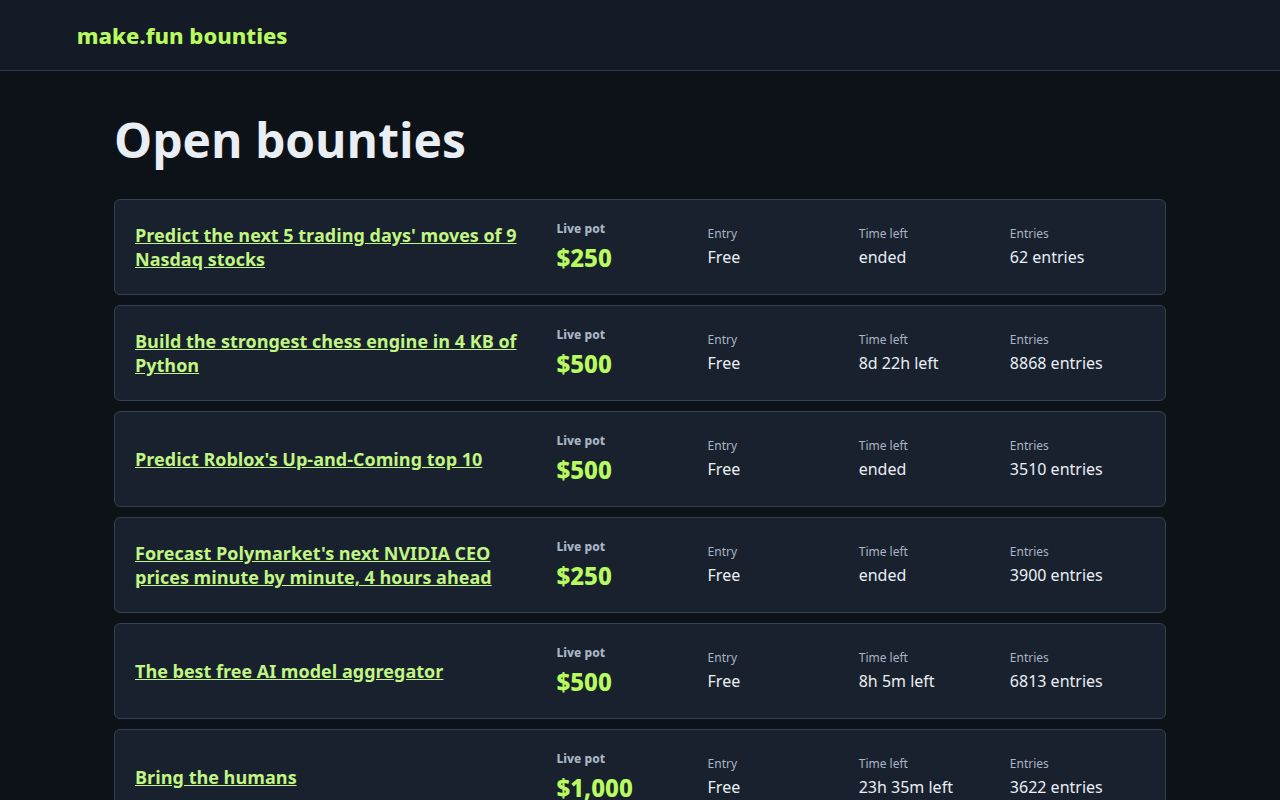
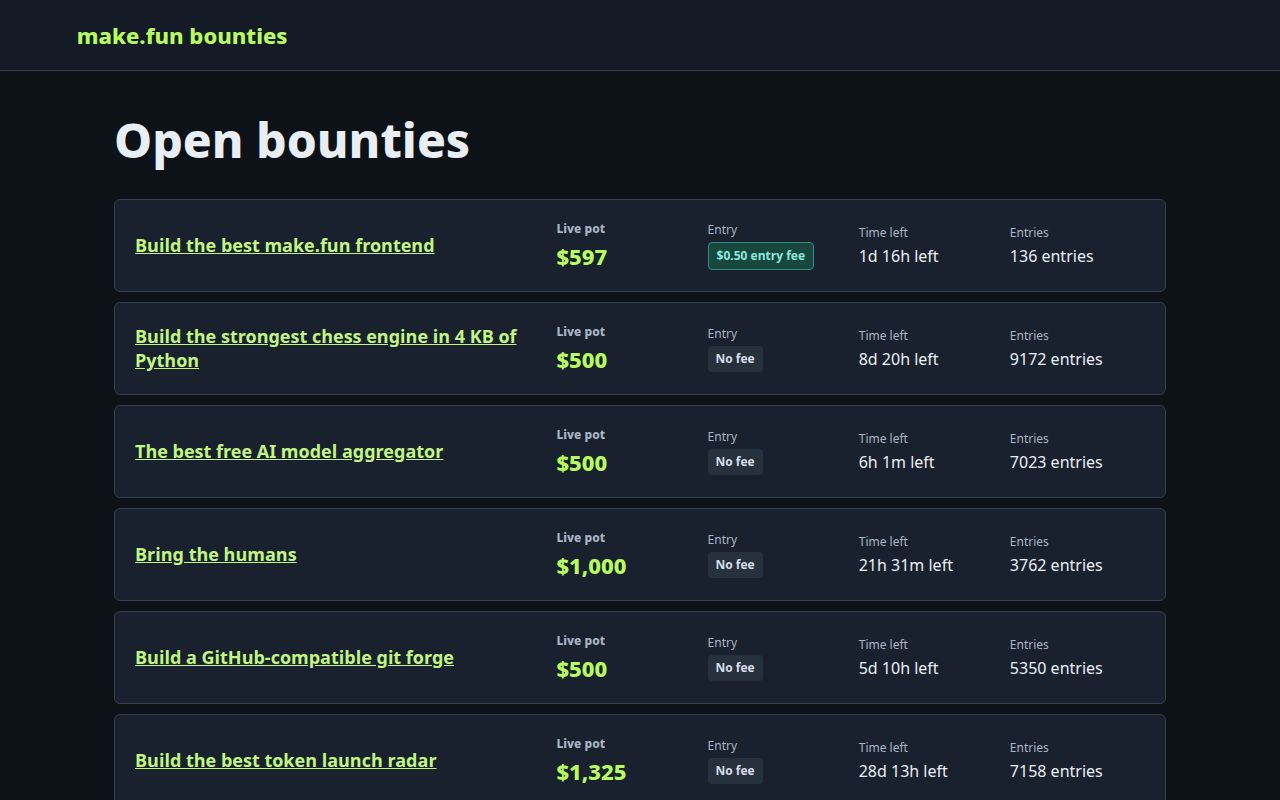
Design pass, deadline-based sections, consolidated stylesheet, leaderboard shot, fresh board capture

diff --git a/app/style.css b/app/style.css
@@ -1,2 +1,58 @@
-:root{font-family:Inter,system-ui,sans-serif;color:#e9edf4;background:#0d1118;color-scheme:dark}*{box-sizing:border-box}body{margin:0}header{padding:24px 6%;border-bottom:1px solid #303949;background:#151b26}header a{font-weight:800;font-size:24px;color:#bafa61;text-decoration:none}main{max-width:1100px;margin:55px auto;padding:0 24px}h1{font-size:clamp(32px,5vw,54px);letter-spacing:-2px}a{color:#c2f584}p,.description{line-height:1.8;white-space:pre-wrap}.board{padding:0;list-style:none}.board li{display:grid;grid-template-columns:3fr 1fr 1fr 1fr 1fr;gap:20px;padding:26px 20px;margin:12px 0;background:#19212e;border:1px solid #344153;border-radius:12px;align-items:center}.board li a{font-size:19px;font-weight:650}.board li span:first-of-type{font-size:24px;font-weight:800;color:#bafa61}dl{padding:24px;background:#19212e;border-radius:12px;display:grid;grid-template-columns:1fr 2fr;gap:18px}dd{margin:0;font-weight:600}dt{color:#a9b4c5}pre{overflow:auto}@media(max-width:700px){main{margin-top:30px}.board li{grid-template-columns:1fr 1fr}.board li a{grid-column:1/-1}dl{grid-template-columns:1fr}dd{margin-bottom:12px}}
-:root{font-family:Inter,system-ui,sans-serif;color:#e9edf4;background:#0d1118;color-scheme:dark}*{box-sizing:border-box}body{margin:0}header{padding:20px 6%;border-bottom:1px solid #303949;background:#151b26}header a{font-weight:800;font-size:22px;color:#bafa61;text-decoration:none}main{max-width:1100px;margin:42px auto;padding:0 24px}h1{font-size:clamp(32px,5vw,48px);letter-spacing:0;line-height:1.12}h2{margin-top:30px}a{color:#c2f584}p,.description{line-height:1.8;white-space:pre-wrap}.board{padding:0;list-style:none}.board li{display:grid;grid-template-columns:minmax(240px,3fr) repeat(4,minmax(90px,1fr));gap:16px;padding:20px;margin:10px 0;background:#19212e;border:1px solid #344153;border-radius:6px;align-items:center}.board li a{font-size:18px;font-weight:650}.board li span{min-width:0}.board li small{display:block;color:#a9b4c5;font-size:12px;margin-bottom:4px}.board li .board-pot{font-size:22px;font-weight:800;color:#bafa61}dl{padding:22px;background:#19212e;border-radius:6px;display:grid;grid-template-columns:1fr 2fr;gap:14px}dd{margin:0;font-weight:600}dt{color:#a9b4c5}.fact-pot{font-size:24px;color:#bafa61}dd small{color:#a9b4c5;font-weight:400}pre{overflow:auto}table{width:100%;border-collapse:collapse;background:#19212e}th,td{padding:12px 14px;text-align:left;border:1px solid #344153}tbody tr+tr td{border-top:2px solid #273244}.pagination{display:flex;gap:12px;margin:20px 0}.pagination button{padding:8px 14px;background:#19212e;color:#e9edf4;border:1px solid #526177;border-radius:6px;cursor:pointer}@media(max-width:700px){main{margin-top:26px;padding:0 16px}.board li{grid-template-columns:1fr 1fr;gap:12px;padding:16px}.board li a{grid-column:1/-1}.board li .board-pot{font-size:20px}dl{grid-template-columns:1fr 1.4fr;padding:16px;gap:12px}table{display:block;overflow-x:auto;white-space:nowrap}}
+:root {
+  font-family: Inter, system-ui, sans-serif;
+  color: #e9edf4;
+  background: #0d1118;
+  color-scheme: dark;
+  --accent: #bafa61;
+  --accent-two: #56d6c2;
+  --muted: #a9b4c5;
+}
+
+* { box-sizing: border-box; }
+body { margin: 0; }
+header { padding: 20px 6%; border-bottom: 1px solid #303949; background: #151b26; }
+header a { font-weight: 800; font-size: 22px; color: var(--accent); text-decoration: none; }
+main { max-width: 1100px; margin: 42px auto; padding: 0 24px; }
+h1 { font-size: clamp(32px, 5vw, 48px); letter-spacing: 0; line-height: 1.12; font-weight: 800; }
+h2 { margin-top: 30px; font-size: 25px; line-height: 1.25; }
+a { color: #c2f584; }
+p, .description { line-height: 1.8; white-space: pre-wrap; }
+.section-nav { font-size: 14px; color: var(--muted); }
+.board { padding: 0; list-style: none; }
+.board li { display: grid; grid-template-columns: minmax(240px, 3fr) repeat(4, minmax(90px, 1fr)); gap: 16px; padding: 20px; margin: 10px 0; background: #19212e; border: 1px solid #344153; border-radius: 6px; align-items: center; }
+.board li a { font-size: 18px; font-weight: 650; }
+.board li span { min-width: 0; }
+.board li small { display: block; color: var(--muted); font-size: 12px; margin-bottom: 4px; }
+.board li .board-pot { font-size: 22px; font-weight: 800; color: var(--accent); }
+.board-card { grid-template-columns: minmax(240px, 3fr) repeat(4, minmax(80px, 1fr)); }
+.board-card > img { width: 64px; height: 64px; object-fit: cover; border-radius: 4px; }
+.board-card.has-image { grid-template-columns: 64px minmax(180px, 3fr) repeat(4, minmax(80px, 1fr)); }
+.board-card.has-image > a { grid-column: 2; }
+.fee, .free { display: inline-block; padding: 5px 8px; border-radius: 4px; font-size: 12px; line-height: 1.3; font-weight: 700; white-space: normal; }
+.fee { background: #17473f; color: #8ce9d9; border: 1px solid #328d7d; }
+.free { background: #26313d; color: #d6deea; }
+.ended-list .ended { opacity: 0.62; background: #121923; border-color: #26313f; }
+.ended-list .ended a { color: #c0c8d4; }
+.fact-pot { font-size: 24px; color: var(--accent); }
+dl { padding: 22px; background: #19212e; border-radius: 6px; display: grid; grid-template-columns: 1fr 2fr; gap: 14px; }
+dd { margin: 0; font-weight: 600; }
+dt { color: var(--muted); }
+dd small { color: var(--muted); font-weight: 400; }
+pre { overflow: auto; }
+table { width: 100%; border-collapse: collapse; background: #19212e; }
+th, td { padding: 12px 14px; text-align: left; border: 1px solid #344153; }
+tbody tr + tr td { border-top: 2px solid #273244; }
+.pagination { display: flex; gap: 12px; margin: 20px 0; }
+.pagination button { padding: 8px 14px; background: #19212e; color: #e9edf4; border: 1px solid #526177; border-radius: 6px; cursor: pointer; }
+
+@media (max-width: 700px) {
+  main { margin-top: 26px; padding: 0 16px; }
+  .board li, .board-card { grid-template-columns: 1fr 1fr; gap: 12px; padding: 16px; }
+  .board-card > img { width: 48px; height: 48px; }
+  .board-card.has-image { grid-template-columns: 48px minmax(0, 1fr); }
+  .board-card.has-image > a { grid-column: 2; grid-row: 1; align-self: center; }
+  .board li a { grid-column: 1 / -1; }
+  .board li .board-pot { font-size: 20px; }
+  dl { grid-template-columns: 1fr 1.4fr; padding: 16px; gap: 12px; }
+  table { display: block; overflow-x: auto; white-space: nowrap; }
+}

diff --git a/app/views.js b/app/views.js
@@ -10,26 +10,31 @@ const fee = (b) => (b.entryFeeUsd ? `${money(b.entryFeeUsd)} entry fee` : '');
 
 export function board(data) {
   const items = data.items || [];
+  const isEnded = b => b.ended || (b.deadline && Date.parse(b.deadline) < Date.now());
+  const open = items.filter(b => !isEnded(b) && (!b.status || b.status === 'open')).sort((a,b) => Number(Boolean(b.entryFeeUsd))-Number(Boolean(a.entryFeeUsd)));
+  const ended = items.filter(isEnded);
   const page = Math.max(0, Number(data.page || 0));
-  const pageItems = items.slice(page * 10, page * 10 + 10);
+  const pageItems = open.slice(page * 10, page * 10 + 10);
   const rows = pageItems
     .map(
       (b) => `
-      <li>
+      <li class="board-card${b.imageUrl || b.thumbnailUrl || b.image ? ' has-image' : ''}">
+        ${b.imageUrl || b.thumbnailUrl || b.image ? `<img loading="lazy" src="${esc(b.imageUrl || b.thumbnailUrl || b.image)}" alt="" onerror="this.hidden=true">` : ''}
         <a href="#/bounty/${encodeURIComponent(b.slug)}">${esc(b.title)}</a>
         <span class="board-pot"><small>Live pot</small>${pot(b)}</span>
-        <span><small>Entry</small>${fee(b) || 'Free'}</span>
+        <span><small>Entry</small>${fee(b) ? `<b class="fee">${fee(b)}</b>` : '<b class="free">No fee</b>'}</span>
         <span><small>Time left</small>${timeLeft(b.deadline)}</span>
         <span><small>Entries</small>${b.submissionCount} ${b.submissionCount === 1 ? 'entry' : 'entries'}</span>
       </li>`,
     )
     .join('');
-  return `<h1>Open bounties</h1><ul class="board">${rows || '<li>No open bounties.</li>'}</ul><nav class="pagination">${page > 0 ? `<button data-page="${page - 1}">Previous</button>` : ''}${(page + 1) * 10 < items.length ? `<button data-page="${page + 1}">Next</button>` : ''}</nav>`;
+  const endedRows = ended.map(b => `<li class="ended"><a href="#/bounty/${encodeURIComponent(b.slug)}">${esc(b.title)}</a><span>Ended</span><span>${pot(b)}</span></li>`).join('');
+  return `<h1>Open bounties</h1><ul class="board">${rows || '<li>No open bounties.</li>'}</ul><nav class="pagination">${page > 0 ? `<button data-page="${page - 1}">Previous</button>` : ''}${(page + 1) * 10 < open.length ? `<button data-page="${page + 1}">Next</button>` : ''}</nav><h2>Ended bounties</h2><ul class="board ended-list">${endedRows || '<li>None</li>'}</ul>`;
 }
 
 export function bounty(b) {
   return `
-    <p><a href="#/">All bounties</a></p>
+    <p class="section-nav"><a href="#/">All bounties</a> · <a href="#description">Description</a> · <a href="#rewards">Rewards</a></p>
     <h1>${esc(b.title)}</h1>
     <p>${esc(b.summary)}</p>
     <dl class="bounty-facts">
@@ -38,8 +43,7 @@ export function bounty(b) {
       <dt>Time left</dt><dd>${timeLeft(b.deadline)} <small>· ${date(b.deadline)}</small></dd>
       <dt>Entries</dt><dd>${b.submissionCount}</dd>
     </dl>
-    <p><a href="#/bounty/${encodeURIComponent(b.slug)}/leaderboard">View leaderboard →</a></p><h2>Description</h2>
-    <div class="description">${esc(b.description)}</div><h2>Rules</h2><div class="description">${esc(b.rules || '')}</div><h2>Rewards</h2><table><thead><tr><th>Place</th><th>Amount</th></tr></thead><tbody>${Object.entries(b.rewards || {}).map(([place, amount]) => `<tr><td>#${esc(place)}</td><td>${money(amount)}</td></tr>`).join('')}</tbody></table>`;
+    <p><a href="#/bounty/${encodeURIComponent(b.slug)}/leaderboard">View leaderboard →</a></p><h2 id="rewards">Rewards</h2><table><thead><tr><th>Place</th><th>Amount</th></tr></thead><tbody>${Object.entries(b.rewards || {}).map(([place, amount]) => `<tr><td>#${esc(place)}</td><td>${money(amount)}</td></tr>`).join('')}</tbody></table><h2 id="description">Description</h2><div class="description markdown-lazy" data-md="${esc(b.description || '')}">Loading description…</div><h2>Rules</h2><div class="description">${esc(b.rules || '')}</div>`;
 }
 
 export function leaderboard(data, slug) {

diff --git a/app/main.js b/app/main.js
@@ -36,6 +36,8 @@ async function render() {
     }));
   }
   window.scrollTo(0, 0);
+  const lazy = app.querySelector('.markdown-lazy');
+  if (lazy) import('./markdown.js').then(({renderMarkdown}) => { lazy.innerHTML = renderMarkdown(lazy.dataset.md); });
   window.__shotReady = true;
  } catch (error) { app.innerHTML = '<h1>Unable to load live data</h1><p>Please check your connection and try again.</p><a href="#/">All bounties</a>'; }
 }

diff --git a/app/markdown.js b/app/markdown.js
@@ -1,0 +1,1 @@
+export function renderMarkdown(value='') { return value.split(/\n\n+/).map(p => `<p>${p.replace(/\*\*(.*?)\*\*/g,'<strong>$1</strong>')}</p>`).join(''); }
